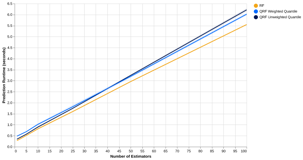
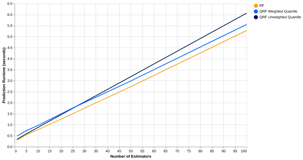
deploy: 8b936f5b0cd3d7d5ebcb95e9da768b744fdd78dd

Changed region(s): [[0.0594, 0.0625, 0.8317, 0.875]]

diff --git a/gallery/plot_quantile_weighting.html b/gallery/plot_quantile_weighting.html
@@ -378,7 +378,7 @@ comparison.</p>
   // embed when document is loaded, to ensure vega library is available
   // this works on all modern browsers, except IE8 and older
   document.addEventListener("DOMContentLoaded", function(event) {
-      var spec = {"config": {"view": {"continuousWidth": 300, "continuousHeight": 300}, "range": {"category": ["#f2a619", "#006aff", "#001751"]}}, "layer": [{"mark": {"type": "line"}, "encoding": {"color": {"condition": {"param": "param_12", "field": "name", "legend": {"symbolOpacity": 1}, "sort": ["RF", "QRF Weighted Quantile", "QRF Unweighted Quantile"], "title": null, "type": "nominal"}, "value": "lightgray"}, "x": {"field": "n_estimators", "title": "Number of Estimators", "type": "quantitative"}, "y": {"field": "mean", "title": "Prediction Runtime (seconds)", "type": "quantitative"}}, "name": "view_10"}, {"mark": {"type": "area", "opacity": 0.1}, "encoding": {"color": {"condition": {"param": "param_12", "field": "name", "legend": {"symbolOpacity": 1}, "sort": ["RF", "QRF Weighted Quantile", "QRF Unweighted Quantile"], "title": null, "type": "nominal"}, "value": "lightgray"}, "tooltip": [{"field": "name", "title": "Estimator Name", "type": "nominal"}, {"field": "n_estimators", "format": ",d", "title": "Number of Estimators", "type": "quantitative"}, {"field": "mean", "format": ",.3f", "title": "Average Runtime", "type": "quantitative"}, {"field": "ymin", "format": ",.3f", "title": "Minimum Runtime", "type": "quantitative"}, {"field": "ymax", "format": ",.3f", "title": "Maximum Runtime", "type": "quantitative"}], "x": {"field": "n_estimators", "type": "quantitative"}, "y": {"field": "ymin", "type": "quantitative"}, "y2": {"field": "ymax"}}}], "data": {"name": "data-54588f76b10b98eaab9bc66233bba80a"}, "height": 400, "params": [{"name": "param_12", "select": {"type": "point", "fields": ["name"]}, "bind": "legend", "views": ["view_10"]}], "width": 650, "$schema": "https://vega.github.io/schema/vega-lite/v5.16.3.json", "datasets": {"data-54588f76b10b98eaab9bc66233bba80a": [{"name": "QRF Unweighted Quantile", "n_estimators": 1, "runtime_mean": 0.3485441207885742, "runtime_std": 0.035296589232525634, "mean": 0.3485441207885742, "std": 0.035296589232525634, "ymin": 0.3308958261723114, "ymax": 0.36619241540483705}, {"name": "QRF Unweighted Quantile", "n_estimators": 5, "runtime_mean": 0.5700826644897461, "runtime_std": 0.011207335824474775, "mean": 0.5700826644897461, "std": 0.011207335824474775, "ymin": 0.5644789965775087, "ymax": 0.5756863324019835}, {"name": "QRF Unweighted Quantile", "n_estimators": 10, "runtime_mean": 0.8827447891235352, "runtime_std": 0.054323667289715515, "mean": 0.8827447891235352, "std": 0.054323667289715515, "ymin": 0.8555829554786774, "ymax": 0.909906622768393}, {"name": "QRF Unweighted Quantile", "n_estimators": 25, "runtime_mean": 1.7688274383544922, "runtime_std": 0.021867892789880126, "mean": 1.7688274383544922, "std": 0.021867892789880126, "ymin": 1.7578934919595521, "ymax": 1.7797613847494322}, {"name": "QRF Unweighted Quantile", "n_estimators": 50, "runtime_mean": 3.34928035736084, "runtime_std": 0.516331242298874, "mean": 3.34928035736084, "std": 0.516331242298874, "ymin": 3.091114736211403, "ymax": 3.6074459785102766}, {"name": "QRF Unweighted Quantile", "n_estimators": 100, "runtime_mean": 6.119418144226074, "runtime_std": 0.034382102932976104, "mean": 6.119418144226074, "std": 0.034382102932976104, "ymin": 6.102227092759586, "ymax": 6.136609195692563}, {"name": "QRF Weighted Quantile", "n_estimators": 1, "runtime_mean": 0.48422813415527344, "runtime_std": 0.014878202341507671, "mean": 0.48422813415527344, "std": 0.014878202341507671, "ymin": 0.4767890329845196, "ymax": 0.4916672353260273}, {"name": "QRF Weighted Quantile", "n_estimators": 5, "runtime_mean": 0.6871938705444336, "runtime_std": 0.01331309173714139, "mean": 0.6871938705444336, "std": 0.01331309173714139, "ymin": 0.6805373246758629, "ymax": 0.6938504164130043}, {"name": "QRF Weighted Quantile", "n_estimators": 10, "runtime_mean": 1.0030746459960938, "runtime_std": 0.07725986663583302, "mean": 1.0030746459960938, "std": 0.07725986663583302, "ymin": 0.9644447126781772, "ymax": 1.0417045793140103}, {"name": "QRF Weighted Quantile", "n_estimators": 25, "runtime_mean": 1.8518924713134766, "runtime_std": 0.18740472785746998, "mean": 1.8518924713134766, "std": 0.18740472785746998, "ymin": 1.7581901073847415, "ymax": 1.9455948352422117}, {"name": "QRF Weighted Quantile", "n_estimators": 50, "runtime_mean": 3.247690200805664, "runtime_std": 0.6794423164404582, "mean": 3.247690200805664, "std": 0.6794423164404582, "ymin": 2.907969042585435, "ymax": 3.587411359025893}, {"name": "QRF Weighted Quantile", "n_estimators": 100, "runtime_mean": 5.922436714172363, "runtime_std": 0.1295709501673975, "mean": 5.922436714172363, "std": 0.1295709501673975, "ymin": 5.857651239088664, "ymax": 5.987222189256062}, {"name": "RF", "n_estimators": 1, "runtime_mean": 0.27747154235839844, "runtime_std": 0.007560204313250095, "mean": 0.27747154235839844, "std": 0.007560204313250095, "ymin": 0.2736914402017734, "ymax": 0.2812516445150235}, {"name": "RF", "n_estimators": 5, "runtime_mean": 0.516200065612793, "runtime_std": 0.01632444890222497, "mean": 0.516200065612793, "std": 0.01632444890222497, "ymin": 0.5080378411616805, "ymax": 0.5243622900639054}, {"name": "RF", "n_estimators": 10, "runtime_mean": 0.810694694519043, "runtime_std": 0.05159301295975789, "mean": 0.810694694519043, "std": 0.05159301295975789, "ymin": 0.784898188039164, "ymax": 0.8364912009989219}, {"name": "RF", "n_estimators": 25, "runtime_mean": 1.631927490234375, "runtime_std": 0.09249478744535529, "mean": 1.631927490234375, "std": 0.09249478744535529, "ymin": 1.5856800965116973, "ymax": 1.6781748839570527}, {"name": "RF", "n_estimators": 50, "runtime_mean": 3.060770034790039, "runtime_std": 0.5764418996224066, "mean": 3.060770034790039, "std": 0.5764418996224066, "ymin": 2.7725490849788357, "ymax": 3.3489909846012424}, {"name": "RF", "n_estimators": 100, "runtime_mean": 5.526185035705566, "runtime_std": 0.06680489248226859, "mean": 5.526185035705566, "std": 0.06680489248226859, "ymin": 5.492782589464432, "ymax": 5.559587481946701}]}};
+      var spec = {"config": {"view": {"continuousWidth": 300, "continuousHeight": 300}, "range": {"category": ["#f2a619", "#006aff", "#001751"]}}, "layer": [{"mark": {"type": "line"}, "encoding": {"color": {"condition": {"param": "param_12", "field": "name", "legend": {"symbolOpacity": 1}, "sort": ["RF", "QRF Weighted Quantile", "QRF Unweighted Quantile"], "title": null, "type": "nominal"}, "value": "lightgray"}, "x": {"field": "n_estimators", "title": "Number of Estimators", "type": "quantitative"}, "y": {"field": "mean", "title": "Prediction Runtime (seconds)", "type": "quantitative"}}, "name": "view_10"}, {"mark": {"type": "area", "opacity": 0.1}, "encoding": {"color": {"condition": {"param": "param_12", "field": "name", "legend": {"symbolOpacity": 1}, "sort": ["RF", "QRF Weighted Quantile", "QRF Unweighted Quantile"], "title": null, "type": "nominal"}, "value": "lightgray"}, "tooltip": [{"field": "name", "title": "Estimator Name", "type": "nominal"}, {"field": "n_estimators", "format": ",d", "title": "Number of Estimators", "type": "quantitative"}, {"field": "mean", "format": ",.3f", "title": "Average Runtime", "type": "quantitative"}, {"field": "ymin", "format": ",.3f", "title": "Minimum Runtime", "type": "quantitative"}, {"field": "ymax", "format": ",.3f", "title": "Maximum Runtime", "type": "quantitative"}], "x": {"field": "n_estimators", "type": "quantitative"}, "y": {"field": "ymin", "type": "quantitative"}, "y2": {"field": "ymax"}}}], "data": {"name": "data-e924b743df5430cd8f5f1c4e4d9ee65f"}, "height": 400, "params": [{"name": "param_12", "select": {"type": "point", "fields": ["name"]}, "bind": "legend", "views": ["view_10"]}], "width": 650, "$schema": "https://vega.github.io/schema/vega-lite/v5.16.3.json", "datasets": {"data-e924b743df5430cd8f5f1c4e4d9ee65f": [{"name": "QRF Unweighted Quantile", "n_estimators": 1, "runtime_mean": 0.3480195999145508, "runtime_std": 0.03467459247915739, "mean": 0.3480195999145508, "std": 0.03467459247915739, "ymin": 0.3306823036749721, "ymax": 0.3653568961541295}, {"name": "QRF Unweighted Quantile", "n_estimators": 5, "runtime_mean": 0.5671501159667969, "runtime_std": 0.02443601115060168, "mean": 0.5671501159667969, "std": 0.02443601115060168, "ymin": 0.554932110391496, "ymax": 0.5793681215420977}, {"name": "QRF Unweighted Quantile", "n_estimators": 10, "runtime_mean": 0.8695125579833984, "runtime_std": 0.042346432990225086, "mean": 0.8695125579833984, "std": 0.042346432990225086, "ymin": 0.8483393414882859, "ymax": 0.8906857744785109}, {"name": "QRF Unweighted Quantile", "n_estimators": 25, "runtime_mean": 1.7403841018676758, "runtime_std": 0.02337638476986503, "mean": 1.7403841018676758, "std": 0.02337638476986503, "ymin": 1.7286959094827432, "ymax": 1.7520722942526084}, {"name": "QRF Unweighted Quantile", "n_estimators": 50, "runtime_mean": 3.1934499740600586, "runtime_std": 0.015040351555659996, "mean": 3.1934499740600586, "std": 0.015040351555659996, "ymin": 3.1859297982822286, "ymax": 3.2009701498378886}, {"name": "QRF Unweighted Quantile", "n_estimators": 100, "runtime_mean": 6.170845031738281, "runtime_std": 0.10518299483754477, "mean": 6.170845031738281, "std": 0.10518299483754477, "ymin": 6.118253534319509, "ymax": 6.223436529157054}, {"name": "QRF Weighted Quantile", "n_estimators": 1, "runtime_mean": 0.4832744598388672, "runtime_std": 0.006211097616380032, "mean": 0.4832744598388672, "std": 0.006211097616380032, "ymin": 0.48016891103067716, "ymax": 0.4863800086470572}, {"name": "QRF Weighted Quantile", "n_estimators": 5, "runtime_mean": 0.6813526153564453, "runtime_std": 0.0032395305692014893, "mean": 0.6813526153564453, "std": 0.0032395305692014893, "ymin": 0.6797328500718446, "ymax": 0.682972380641046}, {"name": "QRF Weighted Quantile", "n_estimators": 10, "runtime_mean": 0.9780645370483398, "runtime_std": 0.04436750607001104, "mean": 0.9780645370483398, "std": 0.04436750607001104, "ymin": 0.9558807840133343, "ymax": 1.0002482900833454}, {"name": "QRF Weighted Quantile", "n_estimators": 25, "runtime_mean": 1.771092414855957, "runtime_std": 0.14962243876369338, "mean": 1.771092414855957, "std": 0.14962243876369338, "ymin": 1.6962811954741104, "ymax": 1.8459036342378037}, {"name": "QRF Weighted Quantile", "n_estimators": 50, "runtime_mean": 3.003668785095215, "runtime_std": 0.029327111255119262, "mean": 3.003668785095215, "std": 0.029327111255119262, "ymin": 2.9890052294676552, "ymax": 3.0183323407227745}, {"name": "QRF Weighted Quantile", "n_estimators": 100, "runtime_mean": 5.672669410705566, "runtime_std": 0.08676103087894985, "mean": 5.672669410705566, "std": 0.08676103087894985, "ymin": 5.629288895266091, "ymax": 5.7160499261450415}, {"name": "RF", "n_estimators": 1, "runtime_mean": 0.27663707733154297, "runtime_std": 0.00958895299647539, "mean": 0.27663707733154297, "std": 0.00958895299647539, "ymin": 0.27184260083330525, "ymax": 0.2814315538297807}, {"name": "RF", "n_estimators": 5, "runtime_mean": 0.5052566528320312, "runtime_std": 0.004716163505084528, "mean": 0.5052566528320312, "std": 0.004716163505084528, "ymin": 0.502898571079489, "ymax": 0.5076147345845735}, {"name": "RF", "n_estimators": 10, "runtime_mean": 0.7660865783691406, "runtime_std": 0.009050001340818892, "mean": 0.7660865783691406, "std": 0.009050001340818892, "ymin": 0.7615615776987312, "ymax": 0.77061157903955}, {"name": "RF", "n_estimators": 25, "runtime_mean": 1.5229225158691406, "runtime_std": 0.04184458513774427, "mean": 1.5229225158691406, "std": 0.04184458513774427, "ymin": 1.5020002233002685, "ymax": 1.5438448084380128}, {"name": "RF", "n_estimators": 50, "runtime_mean": 2.7827024459838867, "runtime_std": 0.05159928040247921, "mean": 2.7827024459838867, "std": 0.05159928040247921, "ymin": 2.756902805782647, "ymax": 2.8085020861851264}, {"name": "RF", "n_estimators": 100, "runtime_mean": 5.341124534606934, "runtime_std": 0.08471128762849707, "mean": 5.341124534606934, "std": 0.08471128762849707, "ymin": 5.298768890792685, "ymax": 5.383480178421182}]}};
       var opt = {
         "mode": "vega-lite",
         "renderer": "canvas",
